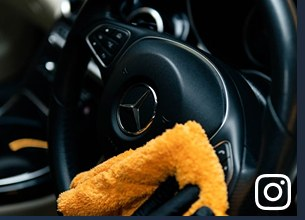
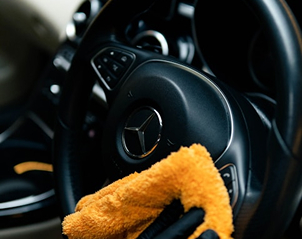
Add section backgrounds, swap font pairing, fix footer layout
- Process and Features sections now use process-background.jpg /
  features-background.jpg with a dark scrim, per DESIGN.md's original
  spec. Darkened process-step/feature-card panels and added a
  backdrop-filter blur so text stays legible over the photos.
- Font pairing confirmed: Michroma for headings/logo (replacing
  Poppins), Inter at weight 300 for body copy. Dropped now-ineffective
  font-weight overrides on Michroma (single-weight font).
- Footer rebuilt to match footer-section.jpg: uppercase/tracked column
  labels, Instagram glyph in a dark chip, bottom row aligned under the
  correct columns on desktop (was confined to column 1's width by grid
  auto-placement), and spacing fixed between the two "Get in touch"
  paragraphs.
- Picked up updated image assets already in the working tree (hero,
  gallery, footer Instagram photo, logo mark, two new logo variants)
  alongside the new background photos.

diff --git a/css/main.css b/css/main.css
@@ -54,7 +54,8 @@ p {
   --colour-muted: #6b6b6b;
   --colour-white: #ffffff;
 
-  --font-display: "Poppins", sans-serif;
+  /* Michroma ships weight 400 only — heading rules don't set font-weight. */
+  --font-display: "Michroma", sans-serif;
   --font-body: "Inter", sans-serif;
 
   --space-s: 0.5rem;
@@ -74,6 +75,7 @@ p {
 
 body {
   font-family: var(--font-body);
+  font-weight: 300;
   color: var(--colour-ink);
   background: var(--colour-bg);
   line-height: 1.5;
@@ -168,7 +170,6 @@ h3 {
   color: var(--colour-white);
   text-decoration: none;
   font-family: var(--font-display);
-  font-weight: 600;
   letter-spacing: 0.05em;
   text-transform: uppercase;
   font-size: 0.9rem;
@@ -209,10 +210,33 @@ h3 {
   color: inherit;
 }
 
-.site-footer__heading {
+.site-footer__col {
+  display: flex;
+  flex-direction: column;
+}
+
+.site-footer__col p + p {
+  margin-block-start: var(--space-m);
+}
+
+.site-footer__heading,
+.site-footer__link {
   font-family: var(--font-display);
-  font-size: 1rem;
+  font-size: 0.85rem;
+  letter-spacing: 0.05em;
+  text-transform: uppercase;
+}
+
+.site-footer__heading {
   margin-block-end: var(--space-s);
+}
+
+.site-footer__link {
+  text-decoration: none;
+}
+
+.site-footer__link:hover {
+  text-decoration: underline;
 }
 
 .site-footer__instagram {
@@ -229,10 +253,17 @@ h3 {
   height: auto;
 }
 
-.site-footer__instagram svg {
+.site-footer__instagram-icon {
   position: absolute;
   inset-block-end: var(--space-s);
   inset-inline-end: var(--space-s);
+  display: flex;
+  align-items: center;
+  justify-content: center;
+  width: 2.25rem;
+  height: 2.25rem;
+  border-radius: 8px;
+  background: var(--colour-bg-near-black);
   color: var(--colour-white);
 }
 
@@ -241,7 +272,10 @@ h3 {
   flex-wrap: wrap;
   justify-content: space-between;
   gap: var(--space-s);
-  font-size: 0.85rem;
+  font-family: var(--font-display);
+  font-size: 0.75rem;
+  letter-spacing: 0.05em;
+  text-transform: uppercase;
   color: var(--colour-muted);
   padding-block-start: var(--space-l);
   border-block-start: 1px solid rgba(255, 255, 255, 0.15);
@@ -254,6 +288,22 @@ h3 {
 @media (min-width: 768px) {
   .site-footer {
     grid-template-columns: 2fr 1fr 1fr;
+  }
+
+  /* Span the full row and reuse the parent's column template so
+     "Site by BLKSWAN" lines up under "Privacy", per the mock. */
+  .site-footer__bottom {
+    grid-column: 1 / -1;
+    display: grid;
+    grid-template-columns: 2fr 1fr 1fr;
+  }
+
+  .site-footer__bottom p:first-child {
+    grid-column: 1;
+  }
+
+  .site-footer__bottom p:last-child {
+    grid-column: 2;
   }
 }
 
@@ -357,7 +407,6 @@ h3 {
   letter-spacing: 0.2em;
   text-transform: uppercase;
   font-size: 0.85rem;
-  font-weight: 600;
 }
 
 .hero__content {
@@ -372,7 +421,6 @@ h3 {
 
 .hero__heading {
   font-family: var(--font-display);
-  font-weight: 600;
   font-size: 2rem;
   line-height: 1.1;
 }
@@ -635,7 +683,12 @@ h3 {
 */
 
 .process {
-  background: var(--colour-bg-near-black);
+  background-color: var(--colour-bg-near-black);
+  /* Photo is already near-black; a light scrim keeps card text legible without hiding it. */
+  background-image: linear-gradient(rgba(5, 5, 5, 0.6), rgba(5, 5, 5, 0.6)),
+    url("/images/process-background.jpg");
+  background-size: cover;
+  background-position: center;
   color: var(--colour-white);
   padding: var(--space-xl) var(--space-m);
 }
@@ -668,7 +721,10 @@ h3 {
   border: 1px solid rgba(255, 255, 255, 0.25);
   border-radius: var(--radius-card);
   padding: var(--space-m) var(--space-l);
-  background: rgba(255, 255, 255, 0.04);
+  /* Darker + blurred backing keeps text legible over the busy background photo. */
+  background: rgba(5, 5, 5, 0.6);
+  backdrop-filter: blur(6px);
+  -webkit-backdrop-filter: blur(6px);
 }
 
 .process-step__title {
@@ -777,7 +833,11 @@ h3 {
 */
 
 .features {
-  background: var(--colour-bg-near-black);
+  background-color: var(--colour-bg-near-black);
+  background-image: linear-gradient(rgba(5, 5, 5, 0.6), rgba(5, 5, 5, 0.6)),
+    url("/images/features-background.jpg");
+  background-size: cover;
+  background-position: center;
   color: var(--colour-white);
   padding: var(--space-xl) var(--space-m);
 }
@@ -810,6 +870,10 @@ h3 {
   border: 1px solid rgba(255, 255, 255, 0.25);
   border-radius: var(--radius-card);
   padding: var(--space-l);
+  /* Darker + blurred backing keeps text legible over the busy background photo. */
+  background: rgba(5, 5, 5, 0.6);
+  backdrop-filter: blur(6px);
+  -webkit-backdrop-filter: blur(6px);
 }
 
 .feature-card__title {

diff --git a/index.html b/index.html
@@ -7,7 +7,7 @@
   <meta name="description" content="[CONFIRM: meta description]">
   <link rel="preconnect" href="https://fonts.googleapis.com">
   <link rel="preconnect" href="https://fonts.gstatic.com" crossorigin>
-  <link href="https://fonts.googleapis.com/css2?family=Inter:wght@400;500;600&family=Poppins:wght@400;500;600&display=swap" rel="stylesheet">
+  <link href="https://fonts.googleapis.com/css2?family=Inter:wght@300;400;500;600;700&family=Michroma&display=swap" rel="stylesheet">
   <link rel="stylesheet" href="/css/main.css">
 </head>
 <body>
@@ -273,17 +273,19 @@
       <p>Operating hours: Mon&ndash;Sat, 8:00 AM &ndash; 6:00 PM</p>
     </div>
     <div class="site-footer__col">
-      <a href="/privacy">Privacy</a>
+      <a class="site-footer__link" href="/privacy">Privacy</a>
     </div>
     <div class="site-footer__col">
       <h2 class="site-footer__heading">Follow us on Instagram</h2>
       <a class="site-footer__instagram" href="https://instagram.com/reebimms">
         <img src="/images/footer-instagram.jpg" width="305" height="220" alt="" aria-hidden="true">
-        <svg width="20" height="20" viewBox="0 0 24 24" fill="none" aria-hidden="true">
-          <rect x="2" y="2" width="20" height="20" rx="5" stroke="currentColor" stroke-width="1.8"/>
-          <circle cx="12" cy="12" r="4.5" stroke="currentColor" stroke-width="1.8"/>
-          <circle cx="17.5" cy="6.5" r="1.2" fill="currentColor"/>
-        </svg>
+        <span class="site-footer__instagram-icon">
+          <svg width="20" height="20" viewBox="0 0 24 24" fill="none" aria-hidden="true">
+            <rect x="2" y="2" width="20" height="20" rx="5" stroke="currentColor" stroke-width="1.8"/>
+            <circle cx="12" cy="12" r="4.5" stroke="currentColor" stroke-width="1.8"/>
+            <circle cx="17.5" cy="6.5" r="1.2" fill="currentColor"/>
+          </svg>
+        </span>
         <span class="visually-hidden">Ree Bimms on Instagram</span>
       </a>
     </div>
